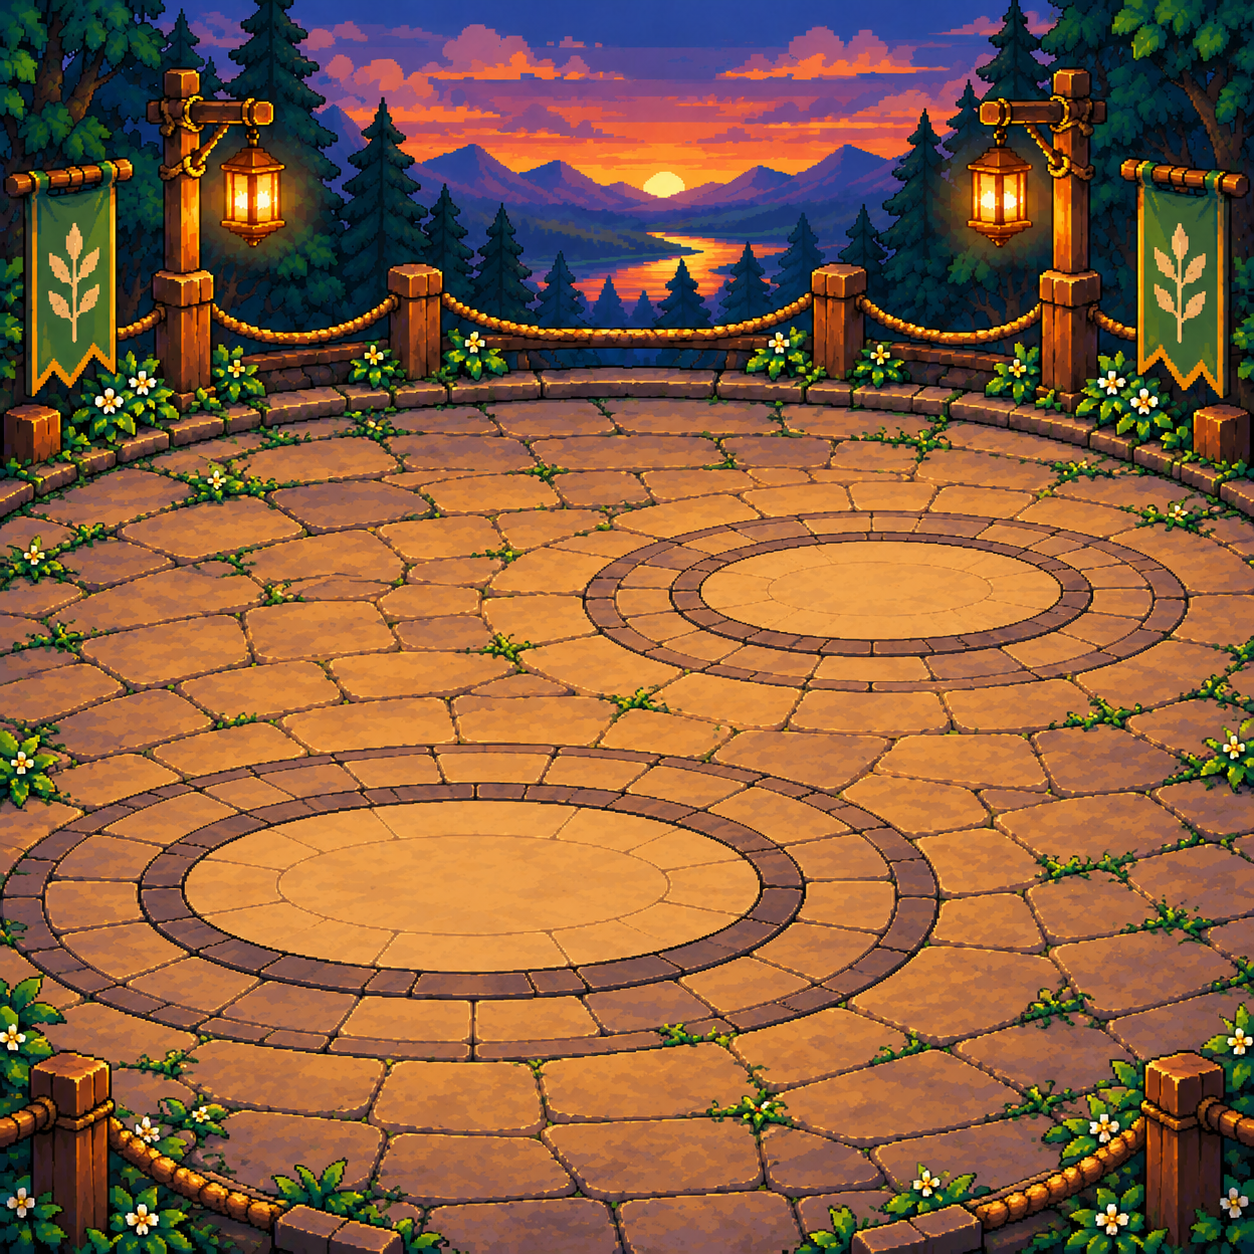
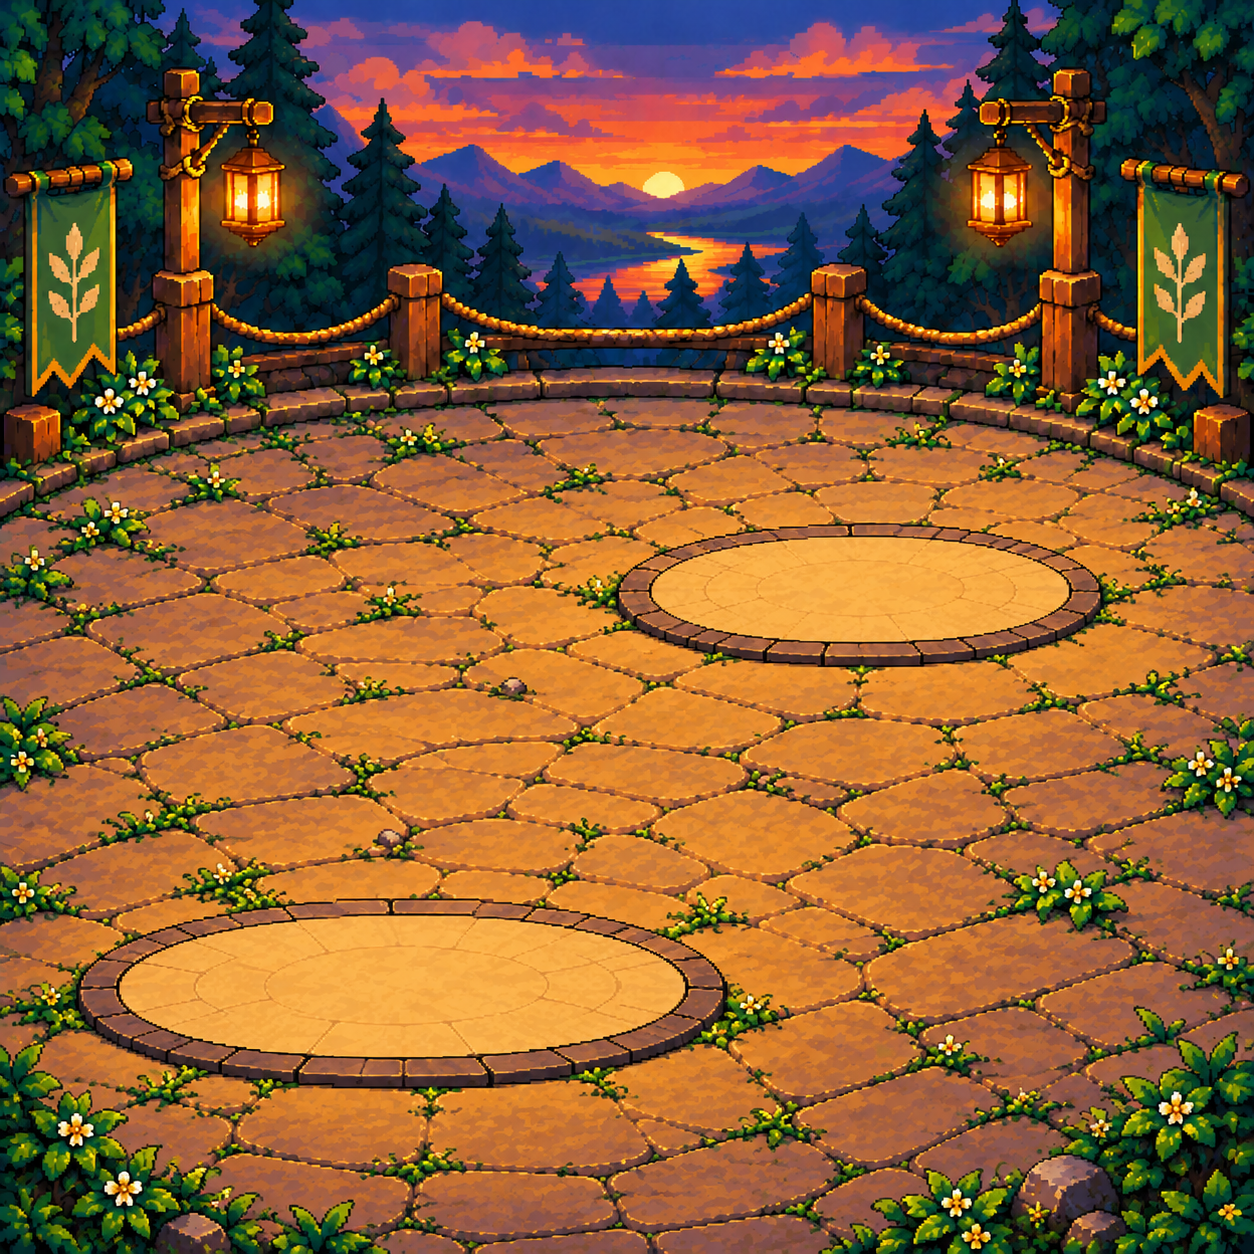
Ring arena: new phone art with pads matching the others, re-measured

diff --git a/src/gui/Play.vue b/src/gui/Play.vue
@@ -479,7 +479,7 @@ header{position:absolute;top:16px;left:16px;right:16px;display:flex;justify-cont
 .arena.forest{background-image:url(/tiles/arena-forest-mobile.png);--padWX:68.7%;--padWY:50.3%;--padOX:31.1%;--padOY:80.7%}
 .arena.water{background-image:url(/tiles/arena-water-mobile.png);--padWX:68.6%;--padWY:51.1%;--padOX:29.9%;--padOY:74.8%}
 .arena.desert{background-image:url(/tiles/arena-desert-mobile.png);--padWX:68.3%;--padWY:49.4%;--padOX:31.2%;--padOY:78%}
-.arena.ring{background-image:url(/tiles/arena-ring-mobile.png);--padWX:68.7%;--padWY:50.6%;--padOX:31.8%;--padOY:79.9%}
+.arena.ring{background-image:url(/tiles/arena-ring-mobile.png);--padWX:68.6%;--padWY:47.4%;--padOX:32.1%;--padOY:79.1%}
 .status{width:43%;min-width:0;padding:5px 8px 6px}.status .row.between{flex-wrap:wrap;gap:0 6px}.status .name{font-size:20px}.status .muted{font-size:14px}.status .chips{margin-top:3px;min-height:0;gap:4px}.status .chip{font-size:8px;padding:2px 4px}.status .hp{margin-top:4px;gap:5px}.status .lbl{font-size:8px}.status .bar{height:8px}.status .hp small{font-size:15px}.wildS{left:6px;top:6px}.ownS{right:6px;bottom:6px}
 .fx{--y0:calc(var(--padOY) - 70px);--y1:calc(var(--padWY) - 66px);--capY:calc(var(--padWY) - 22px)}
 .dmg{left:68%;top:20%;font-size:20px}.dmg.wild{left:16%;top:56%}
